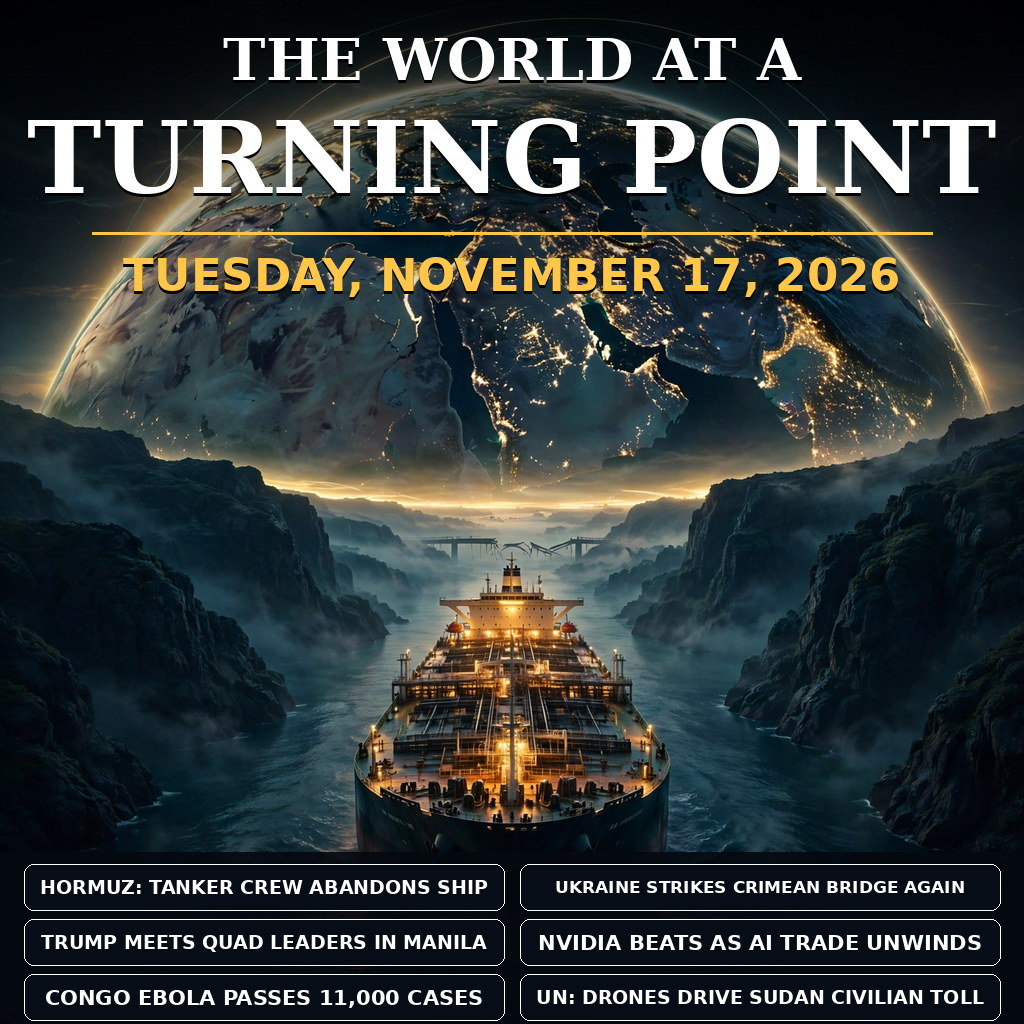
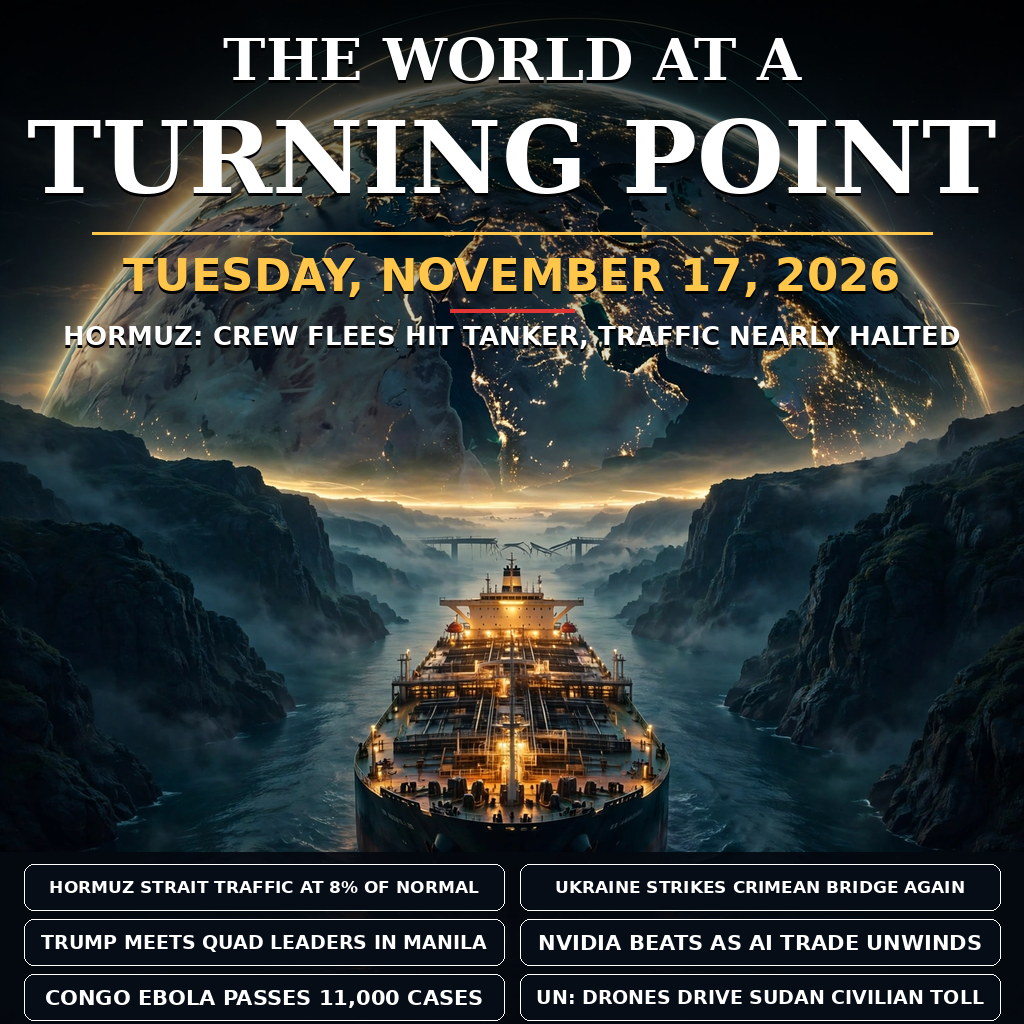
News Image 17 Nov 2026: V2 storytelling - hero headline + Hormuz stat chip
makefun anchor b5b96b90ab940df1c5eb61c0297573d080e3c210 round 34071532

diff --git a/tools/build_image.py b/tools/build_image.py
@@ -37,10 +37,10 @@ CONFIG = dict(
     masthead2_size=112,
     date_text="TUESDAY, NOVEMBER 17, 2026",
     date_size=45,
-    hero_line=None,          # V2 adds the lead-story headline here
-    hero_size=40,
+    hero_line="HORMUZ: CREW FLEES HIT TANKER, TRAFFIC NEARLY HALTED",
+    hero_size=38,
     chips=[
-        "HORMUZ: TANKER CREW ABANDONS SHIP",
+        "HORMUZ STRAIT TRAFFIC AT 8% OF NORMAL",
         "UKRAINE STRIKES CRIMEAN BRIDGE AGAIN",
         "TRUMP MEETS QUAD LEADERS IN MANILA",
         "NVIDIA BEATS AS AI TRADE UNWINDS",
@@ -49,7 +49,7 @@ CONFIG = dict(
     ],
     chip_size=21,
     band_top=852,
-    top_scrim_h=330,
+    top_scrim_h=415,
 )
 
 
@@ -114,9 +114,11 @@ def build(cfg=CONFIG):
 
     y = date_y + cfg["date_size"] + 14
     if cfg.get("hero_line"):
+        d.line([(cx - 62, y + 2), (cx + 62, y + 2)],
+               fill=(226, 54, 54, 255), width=4)
         fh, _ = fit(d, cfg["hero_line"], SANS_B, cfg["hero_size"], 960)
-        centered(d, cx, y, cfg["hero_line"], fh, WHITE)
-        y += cfg["hero_size"] + 10
+        centered(d, cx, y + 12, cfg["hero_line"], fh, WHITE)
+        y += cfg["hero_size"] + 22
 
     # Caption chips: 2 columns x 3 rows inside the bottom band.
     chips = cfg["chips"]
